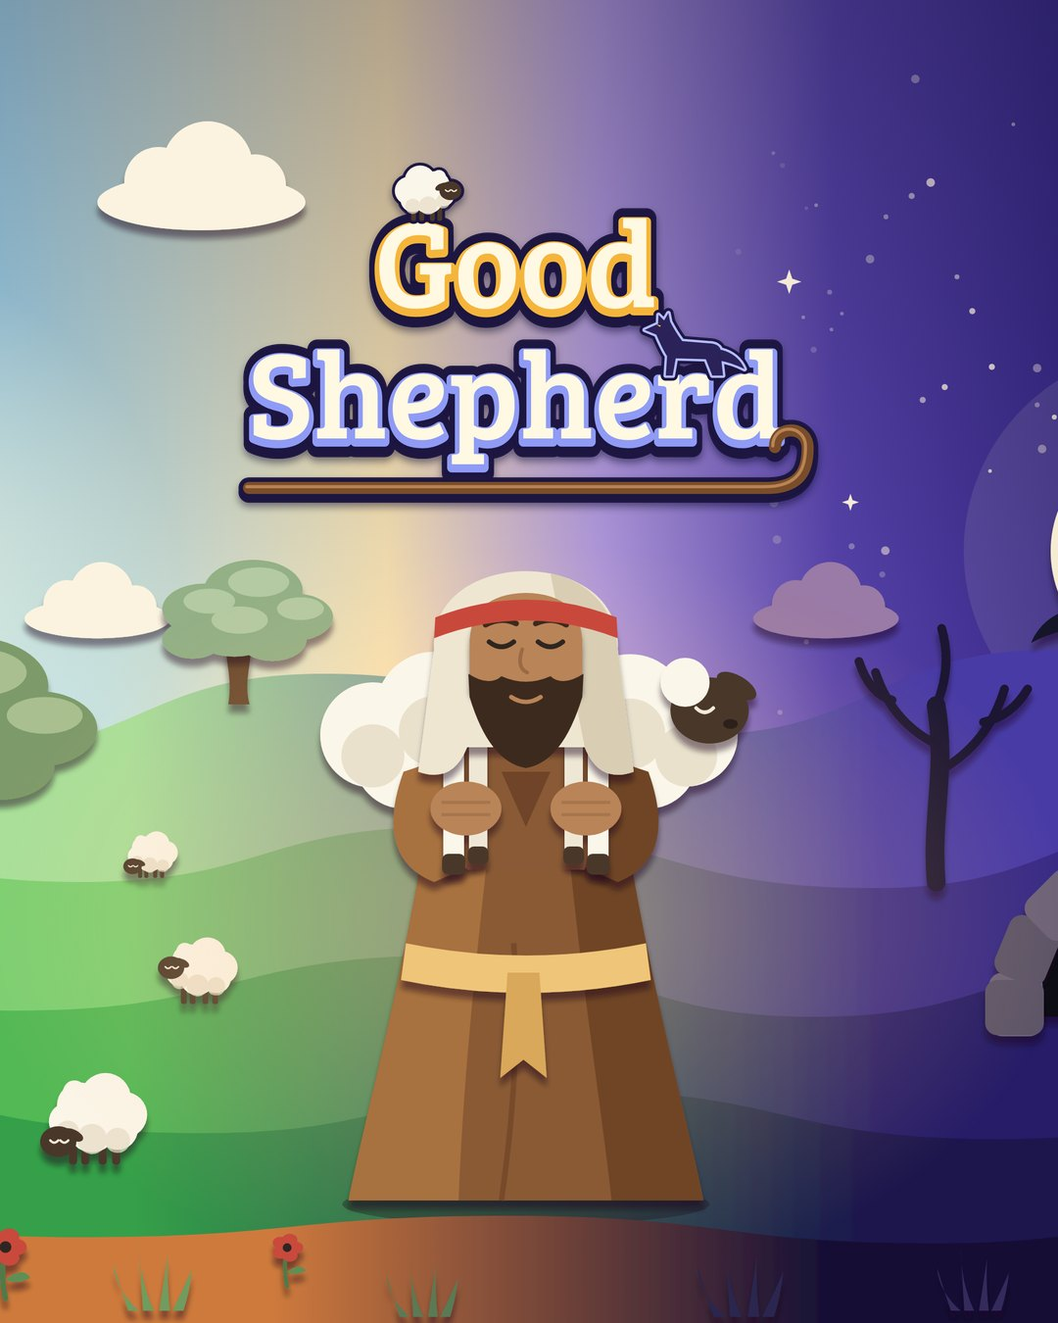
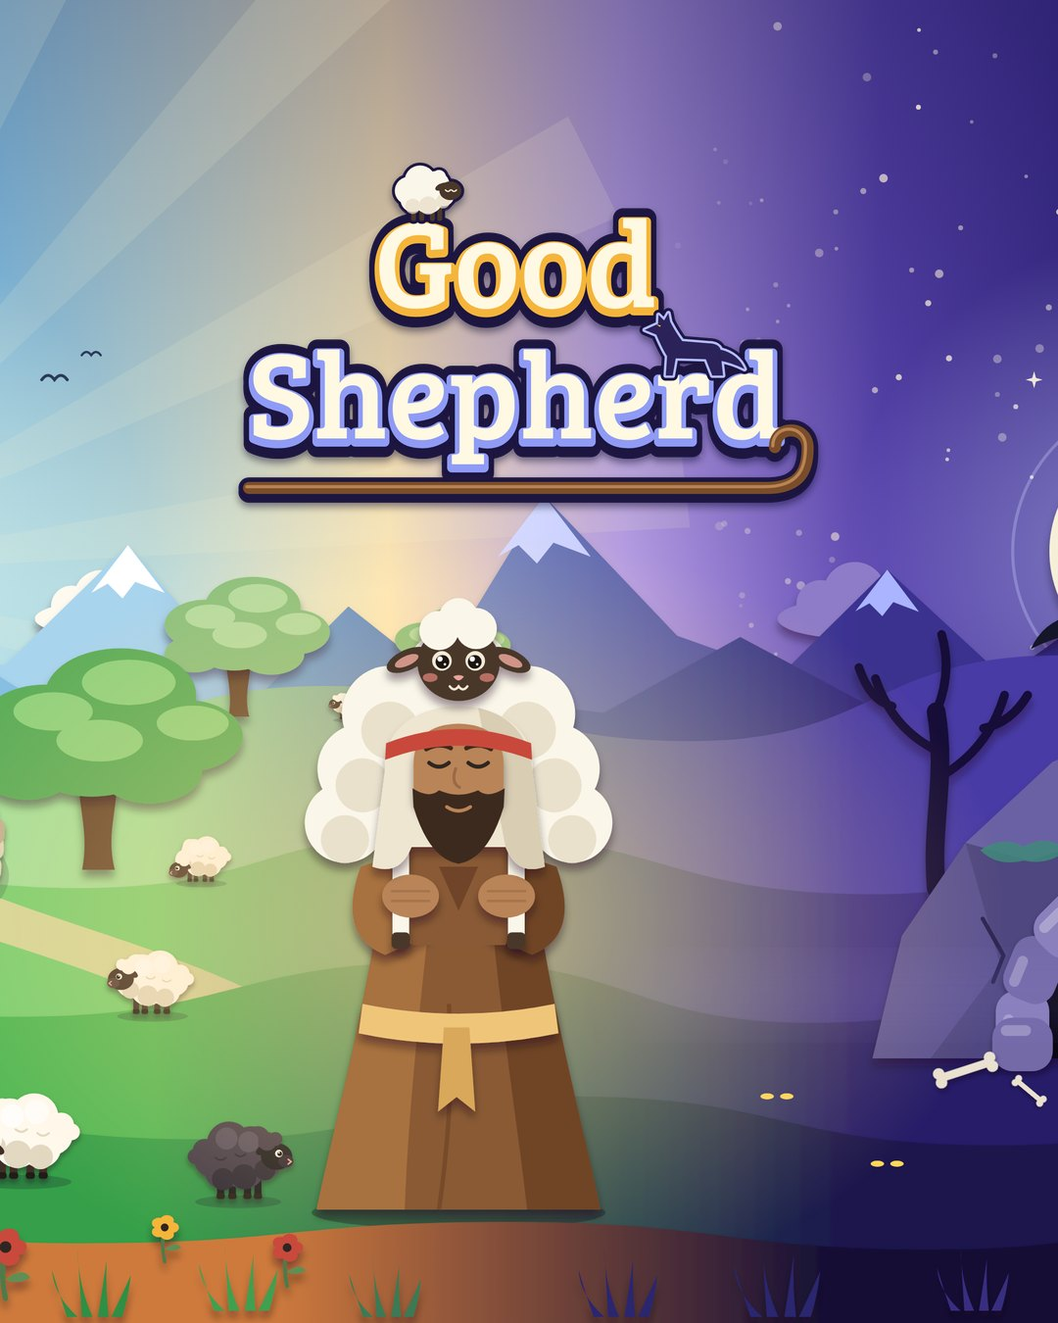
Key art redrawn: mountains, a proper stone fold with a shelter and gate, detailed sheep, a den in a rock outcrop with wolves in it; the name centred and larger; the lamb upright
The wide scene is now tools/keyscene.py (key art, library hero, page background, social banners).

Claude-Session: https://claude.ai/code/session_01VpcujKa2SduHoRcPjGQsic

diff --git a/tools/keyscene.py b/tools/keyscene.py
@@ -1,0 +1,236 @@
+#!/usr/bin/env python3
+"""The wide key scene, redrawn with more in it (2026-11-28): mountains behind the hills, a
+proper stone sheepfold with a shelter and a gate, sheep with wool, faces and feet, a den in
+a rock outcrop with wolves in its dark. 3840 x 2160, no lettering; the top-centre sky is
+kept clear for the title. The shepherd, olives, clouds and the ridge wolf are scene.py's.
+"""
+import math, random
+import scene as S
+
+W, H = S.W, S.H
+PAPER, GOLD, WOOL, FACE, EDGE = "#f4ead6", "#f5b53a", "#fffaf0", "#3f2f28", "#1b1240"
+
+
+def dn(i, day, night, mid=0.52, soft=0.15):
+    return (f'<linearGradient id="{i}" gradientUnits="userSpaceOnUse" x1="0" y1="0" x2="{W}" y2="0"><stop offset="{mid-soft:.3f}" stop-color="{day}"/>'
+            f'<stop offset="{mid+soft:.3f}" stop-color="{night}"/></linearGradient>')
+
+
+def ridge(fill, pts, bottom=H, flt="paper"):
+    d = f"M0,{bottom} L{pts[0][0]},{pts[0][1]} "
+    for k in range(1, len(pts)):
+        (x0, y0), (x1, y1) = pts[k - 1], pts[k]
+        mx = (x0 + x1) / 2
+        d += f"C{mx},{y0} {mx},{y1} {x1},{y1} "
+    return f'<path d="{d}L{W},{bottom} Z" fill="{fill}" filter="url(#{flt})"/>'
+
+
+def peaks(fill, snow, base, tops, seed):
+    """A jagged mountain line: (x, height) tops joined by straight cuts, snow on the high ones."""
+    r = random.Random(seed)
+    pts = [(0, base)]
+    for x, h in tops:
+        pts += [(x - r.uniform(150, 230), base - h * 0.35), (x, base - h), (x + r.uniform(150, 230), base - h * 0.4)]
+    pts.append((W, base))
+    d = "M0,%d " % H + " ".join(f"L{x:.0f},{y:.0f}" for x, y in pts) + f" L{W},{H} Z"
+    caps = "".join(f'<path d="M{x},{base-h} l{-h*0.2:.0f},{h*0.26:.0f} l{h*0.09:.0f},{-h*0.05:.0f} l{h*0.08:.0f},{h*0.08:.0f} l{h*0.07:.0f},{-h*0.09:.0f} l{h*0.16:.0f},{h*0.06:.0f}z" fill="url(#{snow})"/>' for x, h in tops if h > 250)
+    return f'<g filter="url(#paper)"><path d="{d}" fill="url(#{fill})"/></g>{caps}'
+
+
+def sheep(cx, cy, s=1.0, right=True, pose="stand", black=False, bell=False, awake=True, lamb=False):
+    """A sheep in cut paper: legs with hooves, a wool cloud with a shaded underside and a lit top,
+    a tail, a dark face with an ear, an eye and a nose, a tuft on its head."""
+    d = 1 if right else -1
+    wool, shade, lit = (("#40394a", "#2c2634", "#575063") if black else (WOOL, "#e3d8c2", "#ffffff"))
+    face, hoof = ("#17131c" if black else FACE), "#241a16"
+    X = lambda dx: cx + dx * s * d
+    Y = lambda dy: cy + dy * s
+    o = []
+    lying = pose == "lie"
+    if not lying:
+        ll = 46 if lamb else 40
+        for lx in (-30, -10, 16, 34):
+            o.append(f'<rect x="{X(lx)-6*s:.1f}" y="{Y(30):.1f}" width="{12*s:.1f}" height="{ll*s:.1f}" rx="{5*s:.1f}" fill="{face}"/><rect x="{X(lx)-7*s:.1f}" y="{Y(30+ll-9):.1f}" width="{14*s:.1f}" height="{10*s:.1f}" rx="{4*s:.1f}" fill="{hoof}"/>')
+    else:
+        o.append(f'<ellipse cx="{X(26):.1f}" cy="{Y(40):.1f}" rx="{22*s:.1f}" ry="{8*s:.1f}" fill="{face}"/><ellipse cx="{X(-20):.1f}" cy="{Y(42):.1f}" rx="{20*s:.1f}" ry="{7*s:.1f}" fill="{face}"/>')
+    puffs = [(-44, 2, 32), (-16, -24, 38), (22, -18, 36), (46, 6, 30), (10, 18, 36), (-26, 22, 32), (-58, -12, 20), (34, -34, 20)]
+    if lying:
+        puffs = [(px, py * 0.7 + 14, r) for px, py, r in puffs]
+    o.append(f'<circle cx="{X(-74):.1f}" cy="{Y(-2 if not lying else 16):.1f}" r="{13*s:.1f}" fill="{wool}"/>')   # tail
+    o.append(f'<g fill="{wool}">' + "".join(f'<circle cx="{X(px):.1f}" cy="{Y(py):.1f}" r="{r*s:.1f}"/>' for px, py, r in puffs) + '</g>')
+    o.append(f'<g fill="{shade}">' + "".join(f'<circle cx="{X(px):.1f}" cy="{Y(py+15):.1f}" r="{r*s*0.6:.1f}"/>' for px, py, r in puffs[3:6]) + '</g>')
+    o.append(f'<g fill="{lit}" opacity=".9">' + "".join(f'<circle cx="{X(px-4):.1f}" cy="{Y(py-9):.1f}" r="{r*s*0.5:.1f}"/>' for px, py, r in puffs[1:3]) + '</g>')
+    o.append("".join(f'<path d="M{X(px)-9*s:.1f},{Y(py):.1f} q{9*s:.1f},{8*s:.1f} {18*s:.1f},0" stroke="{shade}" stroke-width="{3*s:.1f}" fill="none" stroke-linecap="round"/>' for px, py in ((-30, 0), (4, -6), (-8, 26))))
+    hx, hy = X(66), Y(-2 if pose != "graze" else 36)
+    if lying:
+        hy = Y(14)
+    o.append(f'<ellipse cx="{hx-20*s*d:.1f}" cy="{hy-13*s:.1f}" rx="{17*s:.1f}" ry="{8*s:.1f}" fill="{face}" transform="rotate({-28*d} {hx-20*s*d:.1f} {hy-13*s:.1f})"/>')
+    o.append(f'<ellipse cx="{hx:.1f}" cy="{hy:.1f}" rx="{27*s:.1f}" ry="{23*s:.1f}" fill="{face}"/><ellipse cx="{hx+16*s*d:.1f}" cy="{hy+8*s:.1f}" rx="{13*s:.1f}" ry="{11*s:.1f}" fill="{"#2a2230" if black else "#54413a"}"/>')
+    o.append(f'<circle cx="{hx-16*s*d:.1f}" cy="{hy-26*s:.1f}" r="{16*s:.1f}" fill="{wool}"/><circle cx="{hx-2*s*d:.1f}" cy="{hy-30*s:.1f}" r="{12*s:.1f}" fill="{wool}"/>')
+    if awake:
+        o.append(f'<circle cx="{hx+4*s*d:.1f}" cy="{hy-5*s:.1f}" r="{6.5*s:.1f}" fill="#fffaf0"/><circle cx="{hx+5.5*s*d:.1f}" cy="{hy-4.5*s:.1f}" r="{4*s:.1f}" fill="#120c10"/><circle cx="{hx+4.2*s*d:.1f}" cy="{hy-6.5*s:.1f}" r="{1.5*s:.1f}" fill="#fff"/>')
+    else:
+        o.append(f'<path d="M{hx-3*s:.1f},{hy-4*s:.1f} q{6*s:.1f},{6*s:.1f} {12*s:.1f},0" stroke="#fffaf0" stroke-width="{3*s:.1f}" fill="none" stroke-linecap="round"/>')
+    o.append(f'<path d="M{hx+20*s*d:.1f},{hy+5*s:.1f} l{5*s*d:.1f},{4*s:.1f} l{-5*s*d:.1f},{4*s:.1f}" stroke="#e8a59a" stroke-width="{2.6*s:.1f}" fill="none" stroke-linecap="round"/>')
+    if bell:
+        o.append(f'<path d="M{X(44):.1f},{Y(16):.1f} q{12*s*d:.1f},{16*s:.1f} {26*s*d:.1f},{6*s:.1f}" stroke="#c8482e" stroke-width="{6*s:.1f}" fill="none" stroke-linecap="round"/><circle cx="{X(58):.1f}" cy="{Y(34):.1f}" r="{9*s:.1f}" fill="{GOLD}"/><circle cx="{X(58):.1f}" cy="{Y(37):.1f}" r="{2.6*s:.1f}" fill="#7a4e12"/>')
+    sh = f'<ellipse cx="{cx:.1f}" cy="{Y(76 if not lying else 50):.1f}" rx="{74*s:.1f}" ry="{11*s:.1f}" fill="#16102a" opacity=".22"/>'
+    return sh + f'<g filter="url(#cut)">{"".join(o)}</g>'
+
+
+def stone(x, y, w, h, col, rot=0):
+    return (f'<g transform="rotate({rot:.1f} {x:.1f} {y:.1f})"><rect x="{x-w/2:.1f}" y="{y-h/2:.1f}" width="{w:.1f}" height="{h:.1f}" rx="{h*0.38:.1f}" fill="{col}"/>'
+            f'<rect x="{x-w*0.36:.1f}" y="{y-h*0.36:.1f}" width="{w*0.5:.1f}" height="{h*0.2:.1f}" rx="{h*0.1:.1f}" fill="#fff" opacity=".28"/></g>')
+
+
+def fold(cx, cy, s=1.0):
+    """The sheepfold: a ring of dry stone two courses high, a thatched shelter at the back,
+    a wooden gate standing open, straw on the ground, sheep inside."""
+    r = random.Random(5)
+    cols = ["#d7c9a8", "#c2b392", "#e2d6b8", "#b3a383"]
+    rx, ry = 380 * s, 120 * s
+    def wall(a0, a1, gap=None):
+        o = ""
+        for course in (0, 1):
+            n = 15 - course
+            for k in range(n):
+                a = math.radians(a0 + (a1 - a0) * (k + 0.5 * course) / (n - 1))
+                if gap and gap[0] < math.degrees(a) < gap[1]:
+                    continue
+                x, y = cx + math.cos(a) * rx, cy + math.sin(a) * ry - course * 40 * s
+                o += stone(x, y, r.uniform(66, 86) * s, r.uniform(42, 50) * s, r.choice(cols), r.uniform(-5, 5))
+        return f'<g filter="url(#cut)">{o}</g>'
+    out = [f'<ellipse cx="{cx}" cy="{cy+30*s}" rx="{rx*1.12}" ry="{ry*1.25}" fill="#1c1430" opacity=".16"/>',
+           f'<ellipse cx="{cx}" cy="{cy}" rx="{rx*0.96}" ry="{ry*0.94}" fill="#e0c88e"/>']
+    for _ in range(26):   # straw
+        a, q = r.uniform(0, math.tau), r.uniform(0, 0.85)
+        x, y = cx + math.cos(a) * rx * q, cy + math.sin(a) * ry * q
+        out.append(f'<path d="M{x:.0f},{y:.0f} l{r.uniform(-26,26)*s:.0f},{r.uniform(-8,8)*s:.0f}" stroke="#c9a85a" stroke-width="{4*s:.1f}" stroke-linecap="round"/>')
+    out.append(wall(188, 352))
+    # the shelter: posts, a lean-to roof of thatch
+    sx, sy = cx - 150 * s, cy - 100 * s
+    out.append(f'<g filter="url(#cut)"><rect x="{sx-150*s}" y="{sy-120*s}" width="{16*s}" height="{170*s}" rx="{5*s}" fill="#6b4a2e"/><rect x="{sx+134*s}" y="{sy-100*s}" width="{16*s}" height="{160*s}" rx="{5*s}" fill="#6b4a2e"/>'
+               f'<rect x="{sx-140*s}" y="{sy-60*s}" width="{280*s}" height="{112*s}" fill="#4a3320" opacity=".55"/>'
+               f'<path d="M{sx-190*s},{sy-112*s} L{sx-20*s},{sy-206*s} L{sx+190*s},{sy-128*s} L{sx+176*s},{sy-70*s} L{sx-176*s},{sy-58*s} Z" fill="#d9a441"/>'
+               f'<path d="M{sx-190*s},{sy-112*s} L{sx-20*s},{sy-206*s} L{sx+190*s},{sy-128*s} L{sx+186*s},{sy-108*s} L{sx-20*s},{sy-180*s} L{sx-186*s},{sy-92*s} Z" fill="#eec26a"/></g>'
+               + "".join(f'<path d="M{sx+k*s},{sy-(160-abs(k)*0.3)*s:.0f} l{-6*s},{(86-abs(k)*0.1)*s:.0f}" stroke="#b9832e" stroke-width="{4*s}" stroke-linecap="round" opacity=".8"/>' for k in range(-150, 170, 34)))
+    out.append(sheep(cx - 150 * s, cy - 38 * s, 0.62 * s, True, "lie", awake=False) + sheep(cx + 130 * s, cy - 44 * s, 0.7 * s, False, "stand"))
+    # trough
+    out.append(f'<g filter="url(#cut)"><rect x="{cx-30*s}" y="{cy+6*s}" width="{130*s}" height="{34*s}" rx="{8*s}" fill="#7a5433"/><rect x="{cx-22*s}" y="{cy+10*s}" width="{114*s}" height="{14*s}" rx="{6*s}" fill="#7fc4e8"/></g>')
+    out.append(wall(8, 172, gap=(62, 104)))
+    # the gate, standing open, and its posts with a lamp
+    gx, gy = cx + math.cos(math.radians(62)) * rx, cy + math.sin(math.radians(62)) * ry
+    px, py = cx + math.cos(math.radians(104)) * rx, cy + math.sin(math.radians(104)) * ry
+    out.append(f'<g filter="url(#cut)"><rect x="{gx-10*s:.0f}" y="{gy-120*s:.0f}" width="{20*s}" height="{140*s}" rx="{6*s}" fill="#5b3a22"/><rect x="{px-10*s:.0f}" y="{py-120*s:.0f}" width="{20*s}" height="{140*s}" rx="{6*s}" fill="#5b3a22"/>'
+               f'<g transform="translate({gx:.0f} {gy-60*s:.0f}) skewY(-16)"><rect x="0" y="{-44*s}" width="{150*s}" height="{14*s}" rx="{5*s}" fill="#8a5a36"/><rect x="0" y="{-8*s}" width="{150*s}" height="{14*s}" rx="{5*s}" fill="#8a5a36"/>'
+               f'<rect x="0" y="{28*s}" width="{150*s}" height="{14*s}" rx="{5*s}" fill="#8a5a36"/><path d="M{6*s},{38*s} L{144*s},{-40*s}" stroke="#6b4a2e" stroke-width="{12*s}" stroke-linecap="round"/><rect x="{138*s}" y="{-50*s}" width="{14*s}" height="{98*s}" rx="{5*s}" fill="#6b4a2e"/></g>'
+               f'<rect x="{px-14*s:.0f}" y="{py-152*s:.0f}" width="{28*s}" height="{34*s}" rx="{7*s}" fill="{GOLD}"/><rect x="{px-7*s:.0f}" y="{py-146*s:.0f}" width="{14*s}" height="{22*s}" rx="{5*s}" fill="#fffbe9"/></g>')
+    return "".join(out)
+
+
+def den(x, y, s=1.0):
+    """The den: a rock outcrop with a cave mouth, wolves' heads and eyes in the dark, old bones outside."""
+    r = random.Random(9)
+    rock = [(-520, 40), (-470, -170), (-360, -330), (-210, -470), (-40, -540), (150, -500), (300, -400), (420, -250), (500, -90), (540, 40)]
+    P = lambda l: " ".join(f"{x+a*s:.0f},{y+b*s:.0f}" for a, b in l)
+    out = [f'<g filter="url(#paper)"><polygon points="{P(rock)}" fill="#4f4680"/></g>']
+    for facet, col in (([(-470, -170), (-360, -330), (-300, -120), (-420, 40), (-520, 40)], "#5c5392"), ([(-210, -470), (-40, -540), (-60, -360), (-250, -300), (-360, -330)], "#6a61a4"),
+                       ([(150, -500), (300, -400), (240, -260), (60, -380), (-40, -540)], "#584f8e"), ([(420, -250), (500, -90), (540, 40), (400, 40), (330, -150)], "#3d3568")):
+        out.append(f'<polygon points="{P(facet)}" fill="{col}"/>')
+    for a, b, l in ((-330, -200, 90), (200, -330, 110), (380, -80, 70), (-120, -420, 60)):
+        out.append(f'<path d="M{x+a*s:.0f},{y+b*s:.0f} l{l*0.4*s:.0f},{l*0.7*s:.0f} l{-l*0.2*s:.0f},{l*0.5*s:.0f}" stroke="#2c2552" stroke-width="{7*s}" fill="none" stroke-linecap="round" stroke-linejoin="round"/>')
+    for a, b, w in ((-260, -318, 150), (60, -470, 190), (330, -330, 120)):   # moss
+        out.append(f'<path d="M{x+(a-w/2)*s:.0f},{y+b*s:.0f} q{w*0.25*s:.0f},{-26*s:.0f} {w*0.5*s:.0f},{-6*s:.0f} q{w*0.25*s:.0f},{-22*s:.0f} {w*0.5*s:.0f},{4*s:.0f} q{-w*0.2*s:.0f},{30*s:.0f} {-w*0.5*s:.0f},{20*s:.0f} q{-w*0.3*s:.0f},{12*s:.0f} {-w*0.5*s:.0f},{-18*s:.0f}z" fill="#3f8a7a" opacity=".85"/>')
+    # the mouth and what waits in it
+    out.append(f'<path d="M{x-230*s},{y+40*s} L{x-230*s},{y-60*s} A{230*s},{225*s} 0 0 1 {x+230*s},{y-60*s} L{x+230*s},{y+40*s} Z" fill="#0b0716"/>'
+               f'<ellipse cx="{x}" cy="{y+10*s}" rx="{190*s}" ry="{70*s}" fill="#5a2c1c" opacity=".35"/>')
+    def head(hx, hy, k, col):
+        return (f'<g transform="translate({hx:.0f} {hy:.0f}) scale({k*s:.2f})"><path d="M-70,60 L-78,-20 L-104,-120 L-44,-66 Q0,-84 44,-66 L104,-120 L78,-20 L70,60 Q36,110 0,118 Q-36,110 -70,60Z" fill="{col}"/>'
+                f'<path d="M-26,60 Q0,74 26,60 L10,104 Q0,110 -10,104Z" fill="#0b0716" opacity=".6"/>'
+                f'<path d="M-58,-6 q24,-22 46,2 q-24,14 -46,-2z" fill="#ffd75a"/><path d="M12,-4 q22,-24 46,-2 q-22,16 -46,2z" fill="#ffd75a"/><ellipse cx="-34" cy="-6" rx="4" ry="9" fill="#1a1020"/><ellipse cx="36" cy="-6" rx="4" ry="9" fill="#1a1020"/></g>')
+    out.append(head(x - 96 * s, y - 70 * s, 0.86, "#1b1436") + head(x + 110 * s, y - 40 * s, 0.7, "#161030") + head(x + 10 * s, y - 150 * s, 0.5, "#120d28"))
+    out.append(f'<g filter="url(#b6)" opacity=".7">' + "".join(f'<ellipse cx="{x+a*s:.0f}" cy="{y+b*s:.0f}" rx="{26*s}" ry="{12*s}" fill="#ffd75a"/>' for a, b in ((-126, -75), (-66, -75), (86, -44), (136, -44))) + '</g>')
+    stones = ""
+    n = 9
+    for k in range(n):
+        a = math.pi * (1.0 - k / (n - 1))
+        cx_, cy_ = x + math.cos(a) * 262 * s, y - 20 * s - math.sin(a) * 240 * s
+        stones += stone(cx_, cy_, 112 * s, 92 * s, "#756aa8" if k % 2 else "#8a80bc", 90 - math.degrees(a))
+    out.append(f'<g filter="url(#cut)">{stones}{stone(x-262*s, y+16*s, 104*s, 92*s, "#756aa8")}{stone(x+262*s, y+16*s, 104*s, 92*s, "#8a80bc")}</g>')
+    def bone(bx, by, rot, k=1.0):
+        return (f'<g transform="translate({bx:.0f} {by:.0f}) rotate({rot}) scale({k*s:.2f})" filter="url(#cut)" fill="#e9e2d0"><rect x="-44" y="-7" width="88" height="14" rx="7"/>'
+                f'<circle cx="-46" cy="-8" r="10"/><circle cx="-46" cy="8" r="10"/><circle cx="46" cy="-8" r="10"/><circle cx="46" cy="8" r="10"/></g>')
+    out.append(bone(x - 360 * s, y + 60 * s, -18) + bone(x + 330 * s, y + 74 * s, 24, 0.8) + bone(x - 250 * s, y + 96 * s, 40, 0.6))
+    return "".join(out)
+
+
+def scene():
+    rnd = random.Random(7)
+    d = [f'<svg xmlns="http://www.w3.org/2000/svg" width="{W}" height="{H}" viewBox="0 0 {W} {H}"><defs>'
+         f'<filter id="paper" x="-20%" y="-20%" width="140%" height="150%"><feDropShadow dx="0" dy="12" stdDeviation="7" flood-color="#150e1e" flood-opacity=".4"/></filter>'
+         f'<filter id="cut" x="-30%" y="-30%" width="160%" height="170%"><feDropShadow dx="0" dy="6" stdDeviation="4" flood-color="#150e1e" flood-opacity=".42"/></filter>'
+         f'<filter id="b6"><feGaussianBlur stdDeviation="9"/></filter><filter id="b40"><feGaussianBlur stdDeviation="40"/></filter>'
+         f'<linearGradient id="sky" gradientUnits="userSpaceOnUse" x1="0" y1="0" x2="{W}" y2="0"><stop offset="0" stop-color="#3fa9ea"/><stop offset=".3" stop-color="#8fd3f4"/><stop offset=".47" stop-color="#ffe9b8"/>'
+         f'<stop offset=".57" stop-color="#b9a0e6"/><stop offset=".68" stop-color="#5a45b0"/><stop offset=".82" stop-color="#2c1f7a"/><stop offset="1" stop-color="#130c40"/></linearGradient>'
+         f'<linearGradient id="skyv" x1="0" y1="0" x2="0" y2="1"><stop offset="0" stop-color="#0c0a3a" stop-opacity=".34"/><stop offset=".45" stop-color="#0c0a3a" stop-opacity="0"/><stop offset=".62" stop-color="#fff6dc" stop-opacity=".0"/><stop offset=".72" stop-color="#fff6dc" stop-opacity=".22"/></linearGradient>'
+         f'<radialGradient id="sunglow"><stop offset="0" stop-color="#fff6d0" stop-opacity=".95"/><stop offset="1" stop-color="#fff6d0" stop-opacity="0"/></radialGradient>'
+         f'<radialGradient id="moonglow"><stop offset="0" stop-color="#cfd6ff" stop-opacity=".55"/><stop offset="1" stop-color="#cfd6ff" stop-opacity="0"/></radialGradient>'
+         f'<radialGradient id="lampspill"><stop offset="0" stop-color="#ffd58a" stop-opacity=".6"/><stop offset="1" stop-color="#ffd58a" stop-opacity="0"/></radialGradient>'
+         + dn("m1", "#a9d4ee", "#3b3090") + dn("m2", "#86bfe2", "#30267c") + dn("snow", "#ffffff", "#aab4ff")
+         + dn("h1", "#a8e09a", "#4a3aa6") + dn("h2", "#7dd072", "#372a86") + dn("h3", "#52b955", "#281d68") + dn("h4", "#35a04a", "#1c144e") + dn("h5", "#cf7a3c", "#140e36", 0.54, 0.12)
+         + dn("path", "#ecd9a4", "#5a4c9a") + '</defs>']
+    d.append(f'<rect width="{W}" height="{H}" fill="url(#sky)"/><rect width="{W}" height="{H}" fill="url(#skyv)"/>')
+    for _ in range(150):   # stars
+        sx, sy = rnd.uniform(2250, W - 20), rnd.uniform(30, 1150)
+        d.append(f'<circle cx="{sx:.0f}" cy="{sy:.0f}" r="{rnd.choice([3, 4, 5, 7])}" fill="{PAPER}" opacity="{rnd.uniform(0.35, 0.95) * min(1.0, (sx - 2200) / 500):.2f}"/>')
+    for sx, sy, r in [(2990, 300, 22), (3740, 260, 26), (3700, 900, 20), (3400, 520, 16), (2860, 620, 14), (3560, 110, 18)]:
+        d.append(f'<path d="M{sx},{sy-r} L{sx+r*0.22},{sy-r*0.22} L{sx+r},{sy} L{sx+r*0.22},{sy+r*0.22} L{sx},{sy+r} L{sx-r*0.22},{sy+r*0.22} L{sx-r},{sy} L{sx-r*0.22},{sy-r*0.22}Z" fill="{PAPER}"/>')
+    # the moon with its halo, low on the night ridge
+    d.append(f'<circle cx="3075" cy="900" r="520" fill="url(#moonglow)"/><circle cx="3075" cy="900" r="250" fill="none" stroke="#cfd6ff" stroke-width="5" opacity=".3"/>'
+             f'<g filter="url(#paper)"><circle cx="3075" cy="900" r="190" fill="#f6efd8"/></g><circle cx="3020" cy="850" r="34" fill="#e3dac0"/><circle cx="3140" cy="960" r="24" fill="#e3dac0"/><circle cx="3120" cy="820" r="14" fill="#e3dac0"/><circle cx="3030" cy="965" r="12" fill="#e3dac0"/>')
+    # the sun: glow, long soft rays, the disc
+    rays = "".join(f'<polygon points="800,940 {800+1500*math.cos(math.radians(a)):.0f},{940+1500*math.sin(math.radians(a)):.0f} {800+1500*math.cos(math.radians(a+7)):.0f},{940+1500*math.sin(math.radians(a+7)):.0f}" fill="#fff6d0" opacity=".13"/>' for a in range(170, 380, 20))
+    d.append(f'{rays}<circle cx="800" cy="940" r="620" fill="url(#sunglow)"/><g filter="url(#paper)"><circle cx="800" cy="940" r="196" fill="{GOLD}"/></g><circle cx="800" cy="940" r="150" fill="#ffd978"/><circle cx="760" cy="900" r="70" fill="#ffe9a8" opacity=".6"/>')
+    d.append(S.cloud(300, 620, 1.15) + S.cloud(1010, 250, 0.8, "#fffaf0") + S.cloud(230, 220, 0.9) + S.cloud(1330, 1010, 0.6, "#fffaf0") + S.cloud(2560, 1010, 0.7, "#8f7cc8") + S.cloud(3600, 1010, 0.6, "#5a49a8"))
+    for bx, by, k in ((520, 420, 1.0), (590, 380, 0.8), (640, 440, 0.7), (1260, 620, 0.8), (1320, 580, 0.6)):   # birds
+        d.append(f'<path d="M{bx-26*k},{by} q{13*k},{-18*k} {26*k},0 q{13*k},{-18*k} {26*k},0" stroke="#2a3a5a" stroke-width="{6*k}" fill="none" stroke-linecap="round"/>')
+    # mountains behind everything
+    d.append(peaks("m1", "snow", 1190, [(260, 330), (760, 230), (1380, 300), (2060, 380), (2620, 260), (3250, 340), (3720, 250)], 3))
+    d.append(peaks("m2", "snow", 1230, [(520, 210), (1100, 170), (1740, 240), (2380, 190), (2960, 230), (3520, 200)], 4))
+    # far hills, the ridge wolf against the moon, far olives
+    d.append(ridge("url(#h1)", [(0, 1260), (520, 1150), (1100, 1240), (1700, 1120), (2300, 1210), (2900, 1070), (3400, 1170), (W, 1110)]))
+    d.append(S.wolf(3010, 1078, 0.62))
+    d.append(S.olive(1560, 1170, 0.6, "#8fc27e", "#b7dca0") + S.olive(300, 1180, 0.5, "#8fc27e", "#b7dca0") + S.olive(1900, 1150, 0.42, "#8fc27e", "#b7dca0"))
+    d.append(sheep(1250, 1180, 0.36, True, "graze") + sheep(1740, 1150, 0.34, False))
+    # middle hills: the fold and its olive; a bare tree and rocks on the night side
+    d.append(ridge("url(#h2)", [(0, 1440), (600, 1340), (1300, 1450), (1900, 1360), (2600, 1460), (3200, 1340), (W, 1430)]))
+    d.append(f'<path d="M1010,1480 C1200,1560 1460,1600 1620,1760 C1700,1840 1760,1900 1800,1990 L1960,1990 C1900,1860 1820,1760 1700,1680 C1500,1560 1300,1520 1130,1450 Z" fill="url(#path)" opacity=".8"/>')
+    d.append(S.olive(1330, 1420, 0.95, "#5fae5a", "#93d27e") + S.olive(250, 1420, 0.8, "#5fae5a", "#93d27e"))
+    d.append(fold(760, 1400, 1.0))
+    d.append(S.bare_tree(2700, 1450, 0.9, "#161038") + S.bare_tree(3560, 1420, 0.6, "#161038"))
+    d.append(sheep(1500, 1400, 0.56, False, "graze") + sheep(330, 1470, 0.5, True, lamb=True))
+    # near hills: the flock, the den
+    d.append(ridge("url(#h3)", [(0, 1650), (500, 1550), (1200, 1660), (1900, 1570), (2500, 1670), (3100, 1570), (W, 1650)]))
+    d.append(den(3090, 1690, 0.95))
+    d.append(sheep(250, 1580, 0.95, True, bell=True) + sheep(640, 1620, 0.8, False, "graze") + sheep(1010, 1640, 0.9, True, "lie", awake=False) + sheep(1420, 1600, 0.78, False) + sheep(820, 1700, 0.5, True, lamb=True))
+    d.append(ridge("url(#h4)", [(0, 1840), (700, 1770), (1500, 1860), (2100, 1790), (2800, 1870), (3400, 1800), (W, 1860)]))
+    d.append(sheep(430, 1830, 1.25, True) + sheep(1210, 1850, 1.05, False, "graze") + sheep(830, 1880, 0.62, True, lamb=True) + sheep(1560, 1890, 0.95, True, black=True))
+    for ex, ey in ((2440, 1790), (3620, 1740), (2620, 1900)):   # eyes in the night grass
+        d.append(f'<ellipse cx="{ex-16}" cy="{ey}" rx="11" ry="5" fill="#ffd75a"/><ellipse cx="{ex+16}" cy="{ey}" rx="11" ry="5" fill="#ffd75a"/>')
+    d.append(f'<rect x="2200" y="1560" width="1640" height="130" fill="#8f86d8" opacity=".12" filter="url(#b40)"/>')
+    # the last warm light of the day round him, then the shepherd, centred
+    d.append(f'<ellipse cx="1920" cy="1500" rx="900" ry="640" fill="url(#lampspill)"/>')
+    d.append(S.shepherd(1920, 1975, 0.8, "upright"))   # (the lamb upright on his shoulders, as on the capsules: slung across, its hanging head read as a beard)
+    d.append(ridge("url(#h5)", [(0, 2020), (600, 1970), (1300, 2030), (2000, 1995), (2700, 2040), (3300, 1985), (W, 2030)]))
+    for fx, fy, fs, col in [(160, 2110, 1.3, "#c9483c"), (420, 2050, 0.9, "#f5b53a"), (640, 2090, 1.0, "#c9483c"), (900, 2060, 0.8, "#ffffff"), (1180, 2120, 1.2, "#c9483c"), (1440, 2060, 0.8, "#f5b53a"), (1640, 2100, 0.9, "#c9483c")]:
+        d.append(S.flower(fx, fy, fs, col))
+    for tx, ty, ts, col in [(60, 2150, 1.3, "#2f8f45"), (300, 2140, 1.0, "#3fa04f"), (760, 2150, 1.4, "#2f8f45"), (1040, 2140, 1.0, "#3fa04f"), (1320, 2150, 1.1, "#2f8f45"), (1560, 2140, 1.1, "#3fa04f"), (1800, 2150, 1.0, "#3a7a55"),
+                            (2180, 2150, 1.1, "#2c2570"), (2440, 2150, 1.2, "#2c2570"), (2760, 2140, 1.0, "#372e80"), (3000, 2150, 1.2, "#2c2570"), (3260, 2150, 1.4, "#2c2570"), (3600, 2140, 1.1, "#372e80")]:
+        d.append(S.tuft(tx, ty, ts, col))
+    d.append('</svg>')
+    return "".join(d)
+
+
+if __name__ == "__main__":
+    import sys
+    open(sys.argv[1] if len(sys.argv) > 1 else "keyscene.svg", "w").write(scene())

diff --git a/tools/capsule_set.py b/tools/capsule_set.py
@@ -15,6 +15,7 @@ import brand
 import capsule_lab as L
 import capsule_drafts as D
 import logo_drafts as LG
+import keyscene
 
 ROOT, B = brand.ROOT, brand.B
 OUT = os.path.join(ROOT, "lab", "capsules", "set")
@@ -49,7 +50,7 @@ def main():
     D.raster([("d_mark_circle", LG.mark("circle"), 1024, 1024), ("d_mark_app", LG.mark("squircle"), 1024, 1024)])
     extra = f'<ellipse cx="1500" cy="1500" rx="900" ry="620" fill="url(#lampspill)"/>' + S.cloud(1050, 1010, 0.8) + S.cloud(700, 620, 1.0)
     D.raster([("d_bg", D.bold(L.backdrop(extra)), D.W, D.H), ("d_man", D.bold(L.defs() + S.shepherd(1500, 1960, 1.0, "upright") + "</svg>"), D.W, D.H),
-              ("d_scene", D.bold(S.scene()), D.W, D.H)])
+              ("d_scene", keyscene.scene(), D.W, D.H)])   # the wide scene: tools/keyscene.py
     T = lambda n: Image.open(os.path.join(D.TMP, n + ".png"))
     stack = Image.open(os.path.join(ROOT, "lab", "logos", "6-blend.png")).convert("RGBA")
     line = Image.open(os.path.join(ROOT, "lab", "logos", "7-blend-one-line.png")).convert("RGBA")
@@ -86,9 +87,9 @@ def main():
     master.crop((0, 800, 3840, 2040)).save(os.path.join(B, "steam", "library-hero-3840x1240.png"))
     pv(master.crop((0, 800, 3840, 2040)).resize((1920, 620), Image.LANCZOS), "hero")
     master.resize((1438, 810), Image.LANCZOS).save(os.path.join(B, "steam", "page-background-1438x810.png"))
-    plan = [("goodshepherd-key-art-1920x1080.png", (1920, 1080), 0.50, 1.0, (0.595, 0.045, 0.385, 0.36), "key-art"),
+    plan = [("goodshepherd-key-art-1920x1080.png", (1920, 1080), 0.50, 1.0, (0.25, 0.012, 0.50, 0.425), "key-art"),   # the name centred over him, as large as the sky allows
             ("social/x-bluesky-header-1500x500.png", (1500, 500), 0.58, 0.90, (0.60, 0.06, 0.38, 0.66), None),
-            ("social/youtube-banner-2560x1440.png", (2560, 1440), 0.50, 1.0, (0.575, 0.355, 0.225, 0.21), None),
+            ("social/youtube-banner-2560x1440.png", (2560, 1440), 0.50, 1.0, (0.39, 0.30, 0.22, 0.16), None),
             ("social/portrait-post-1080x1350.png", (1080, 1350), 0.53, 1.0, (0.08, 0.12, 0.84, 0.27), "portrait")]
     for name, (w, h), fx, fy, (lx, ly, lw, lh), prev in plan:
         art = brand.crop_art(master, w, h, fx, fy).convert("RGBA")
